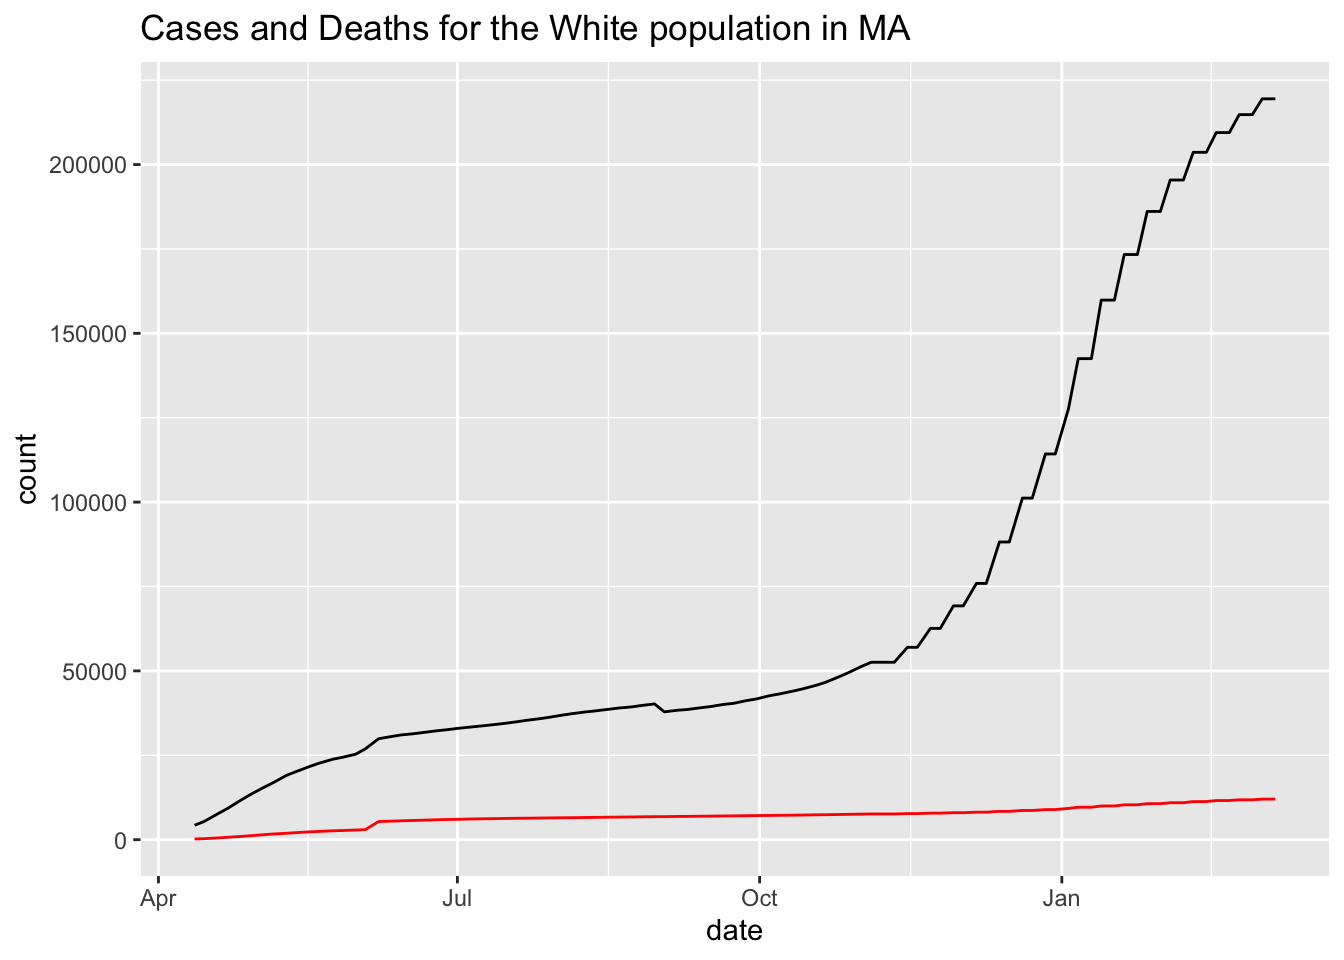
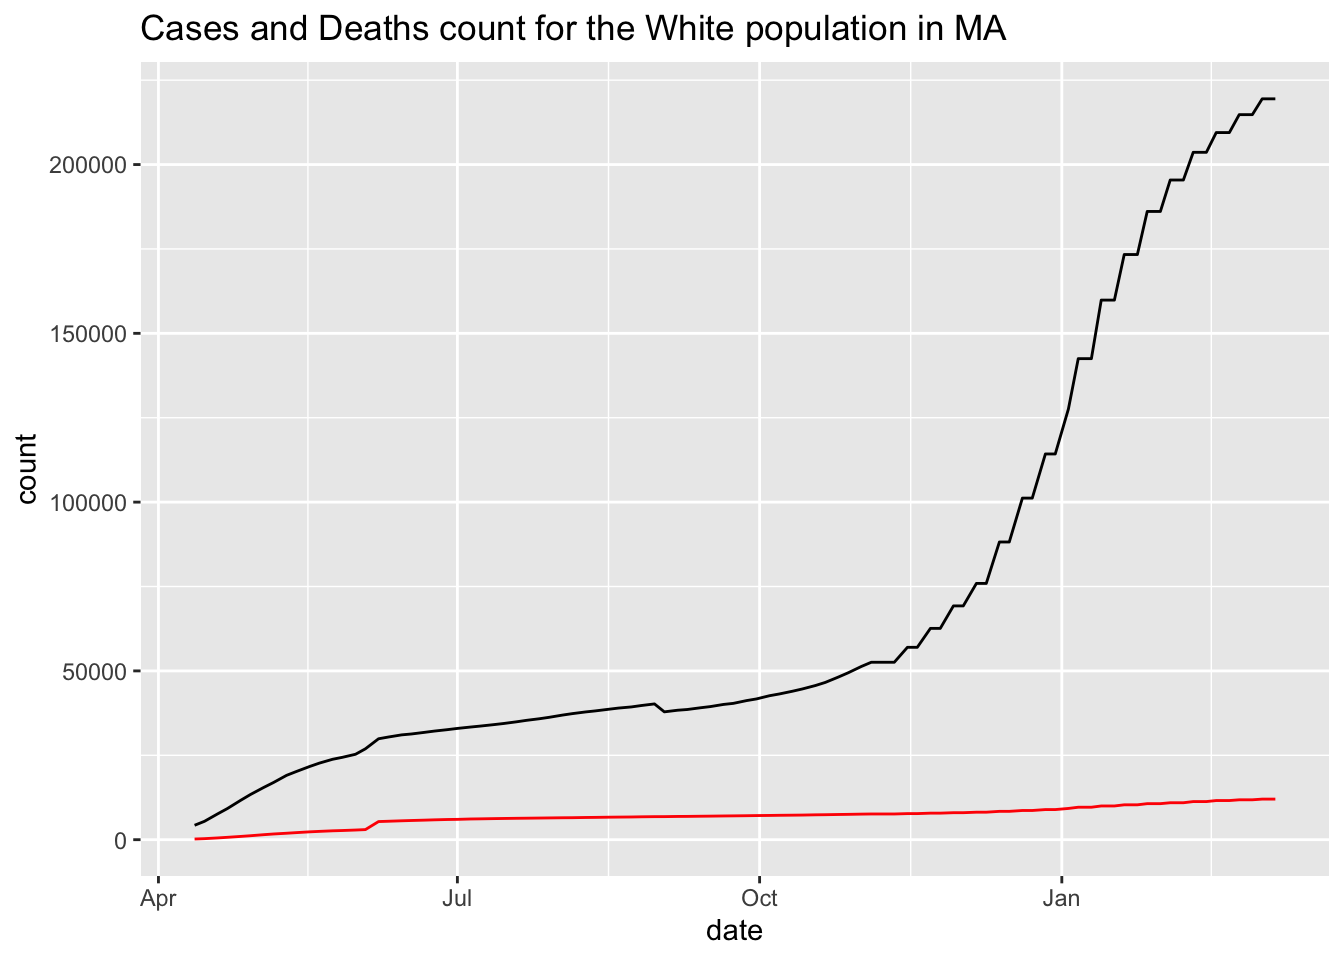
commit

Changed region(s): [[0.3125, 0.0, 0.75, 0.0625]]

diff --git a/Week_02_Covid_Vis.html b/Week_02_Covid_Vis.html
@@ -6,7 +6,7 @@
 
 <meta name="viewport" content="width=device-width, initial-scale=1.0, user-scalable=yes">
 
-<meta name="author" content="[[Your Name]]">
+<meta name="author" content="Aiganysh Ulanova">
 <meta name="dcterms.date" content="2023-09-11">
 
 <title>Week 02: COVID Visualization Activity</title>
@@ -120,7 +120,7 @@ code span.wa { color: #60a0b0; font-weight: bold; font-style: italic; } /* Warni
     <div>
     <div class="quarto-title-meta-heading">Author</div>
     <div class="quarto-title-meta-contents">
-             <p><strong><code>[[</code></strong>Your Name<strong><code>]]</code></strong> </p>
+             <p>Aiganysh Ulanova </p>
           </div>
   </div>
     
@@ -192,16 +192,20 @@ code span.wa { color: #60a0b0; font-weight: bold; font-style: italic; } /* Warni
 </div>
 <p>For this particular graph above, I see how the “Deaths” count is the highest in abundance and grows at the quickest rate for the race “White”, which makes sense as proportionally, this race has the largest population in Massachusetts. The abundance and growth rate for the “Deaths” count is very similar for all other races (excluding “White)”. It is interesting to note how for all races (although you can see this the most clearly for the “White” race), there is a huge increase in the rate for the “Deaths” count around the May - June area. You can clearly see the straight “up” slope for the “White” race (a rapid spike). This is most likely when the height of the pandemic was happening and when the “Cases” count grew rapidly as well (although this needs to be verified by looking more closely at the data).</p>
 <div class="cell">
-<div class="sourceCode cell-code" id="cb9"><pre class="sourceCode r code-with-copy"><code class="sourceCode r"><span id="cb9-1"><a href="#cb9-1" aria-hidden="true" tabindex="-1"></a><span class="co"># writing code that looks at a plot of deaths and cases simultaneously for a specific race in a specific state</span></span>
+<div class="sourceCode cell-code" id="cb9"><pre class="sourceCode r code-with-copy"><code class="sourceCode r"><span id="cb9-1"><a href="#cb9-1" aria-hidden="true" tabindex="-1"></a><span class="co"># Attempt #2: Plot of deaths and cases simultaneously for "White" race in MA</span></span>
 <span id="cb9-2"><a href="#cb9-2" aria-hidden="true" tabindex="-1"></a>covid_data_count <span class="sc">|&gt;</span> </span>
 <span id="cb9-3"><a href="#cb9-3" aria-hidden="true" tabindex="-1"></a>  <span class="fu">filter</span>(state <span class="sc">==</span> <span class="st">"MA"</span>) <span class="sc">|&gt;</span> </span>
 <span id="cb9-4"><a href="#cb9-4" aria-hidden="true" tabindex="-1"></a>  <span class="fu">filter</span>(race <span class="sc">==</span> <span class="st">"White"</span>) <span class="sc">|&gt;</span></span>
-<span id="cb9-5"><a href="#cb9-5" aria-hidden="true" tabindex="-1"></a>  <span class="fu">ggplot</span>(<span class="fu">aes</span>(<span class="at">x =</span> date)) <span class="sc">+</span> <span class="fu">geom_line</span>(<span class="fu">aes</span>(<span class="at">y=</span>Cases), <span class="at">color=</span> <span class="st">"black"</span>) <span class="sc">+</span> <span class="fu">geom_line</span>(<span class="fu">aes</span>(<span class="at">y=</span>Deaths), <span class="at">color=</span> <span class="st">"red"</span>) <span class="sc">+</span> <span class="fu">labs</span>(<span class="at">y=</span><span class="st">"count"</span>, <span class="at">title =</span> <span class="st">"Cases and Deaths for the White population in MA"</span>) </span></code><button title="Copy to Clipboard" class="code-copy-button"><i class="bi"></i></button></pre></div>
+<span id="cb9-5"><a href="#cb9-5" aria-hidden="true" tabindex="-1"></a>  <span class="fu">ggplot</span>(<span class="fu">aes</span>(<span class="at">x =</span> date)) <span class="sc">+</span> <span class="fu">geom_line</span>(<span class="fu">aes</span>(<span class="at">y=</span>Cases), <span class="at">color=</span> <span class="st">"black"</span>) <span class="sc">+</span> <span class="fu">geom_line</span>(<span class="fu">aes</span>(<span class="at">y=</span>Deaths), <span class="at">color=</span> <span class="st">"red"</span>) <span class="sc">+</span> <span class="fu">labs</span>(<span class="at">y=</span><span class="st">"count"</span>, <span class="at">title =</span> <span class="st">"Cases and Deaths count for the White population in MA"</span>) </span></code><button title="Copy to Clipboard" class="code-copy-button"><i class="bi"></i></button></pre></div>
 <div class="cell-output-display">
 <p><img src="Week_02_Covid_Vis_files/figure-html/unnamed-chunk-3-1.png" class="img-fluid" width="672"></p>
 </div>
 </div>
-<p>``` 2. Are there any conclusions you can draw? It’s quite challening to draw conclusions from a singular graph. But we can see how in the time frame from Oct - Feburary, the rate of growth for cases grew at a much quicker rate than the rate of deaths. 3. What were you not able to do due to not having the R knowledge? I wanted to plot barcharts where each bar would represent a race and the y-axis would be a proportion of the population that has gotten COVID. 4. What other data would be useful to better understand this data? Another data that would be useful is to look at the data for recoveries. Having the recovery count would be helpful to understand how the rate of recoveries compares to rate of growth for cases and deaths.</p>
+<p>``` 2. Are there any conclusions you can draw? It’s quite challenging to draw conclusions from a singular graph. But we can see how in the time frame from Oct - February, the rate of growth for cases grew at a much quicker rate than the rate of deaths. The rates were fairly comparable from April- May, but then they started to drastically differ.</p>
+<ol start="3" type="1">
+<li><p>What were you not able to do due to not having the R knowledge? I wanted to plot barcharts where each bar would represent a race and the y-axis would be a proportion of the population that has gotten COVID or the proportion of the population that has died from COVID-19. However, at the time of writing I do not have the R knowledge for this.</p></li>
+<li><p>What other data would be useful to better understand this data? Another data that would be useful is to look at the data for recoveries. Having the recovery count would be helpful to understand how the rate of recoveries compares to rate of growth for cases and deaths.</p></li>
+</ol>
 
 </main>
 <!-- /main column -->
